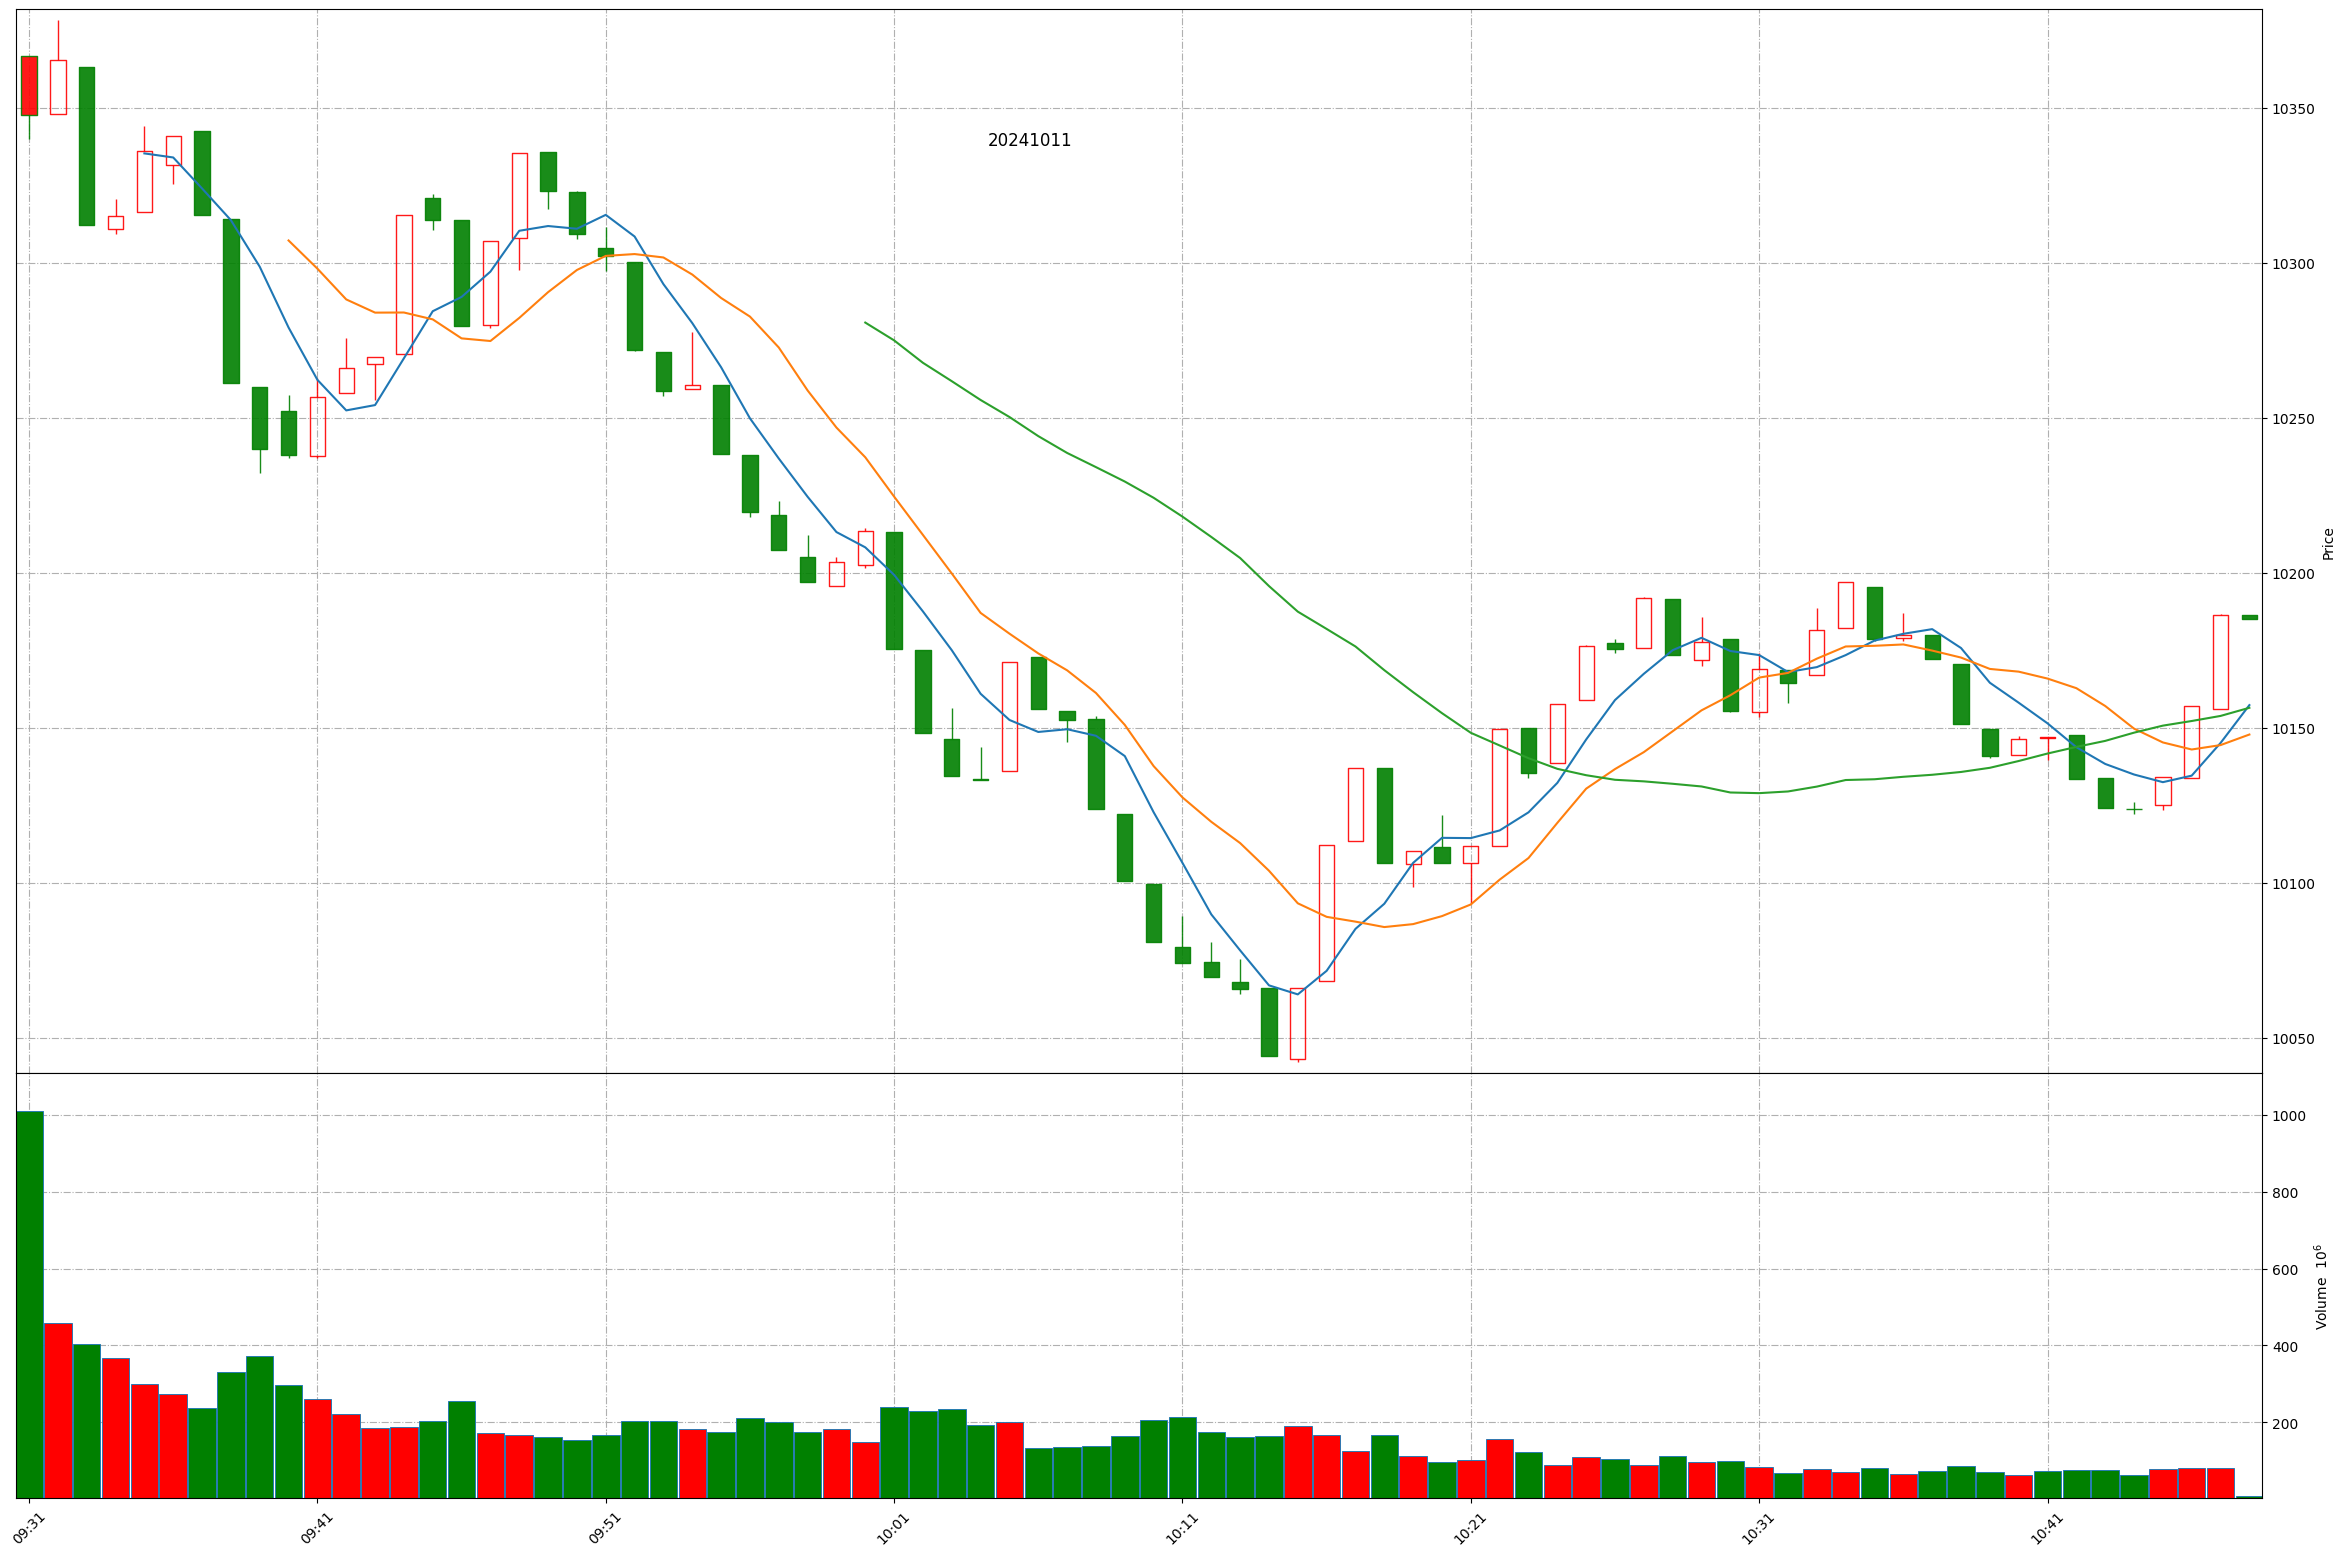
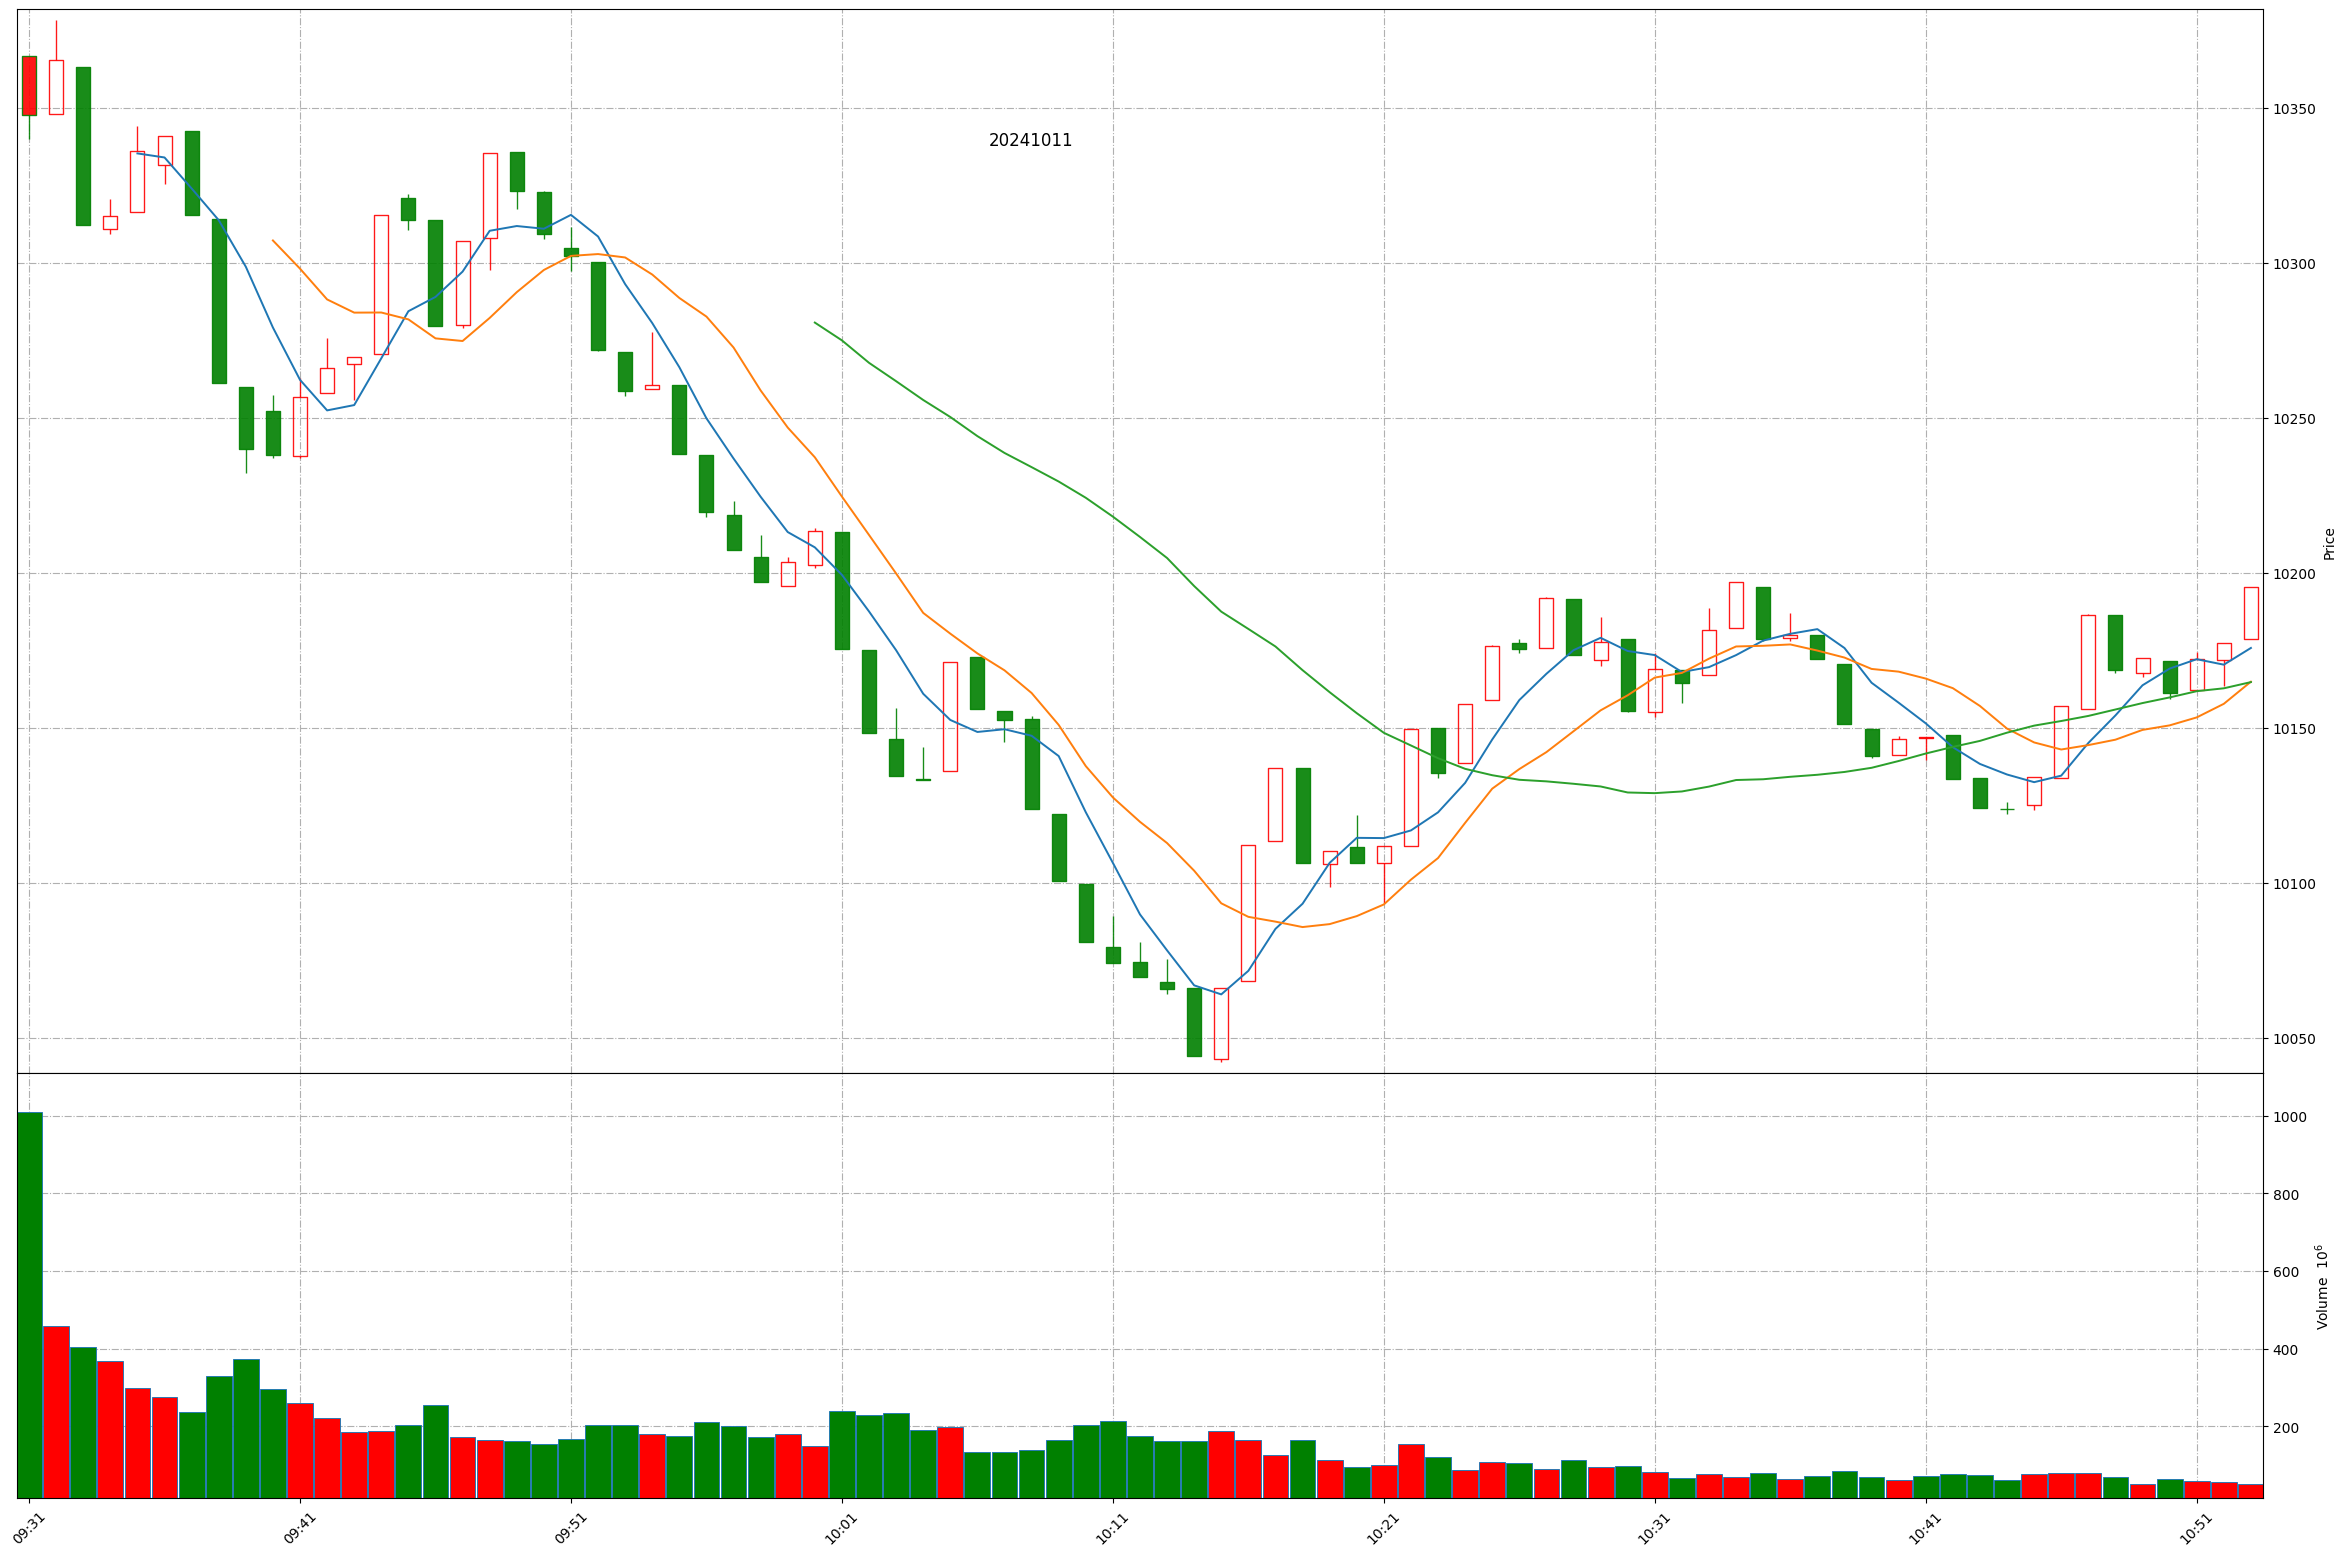
Github action update at 2024-10-11 10:52:57.

Changed region(s): [[0.0, 0.0308, 0.965, 0.6787], [0.0, 0.8329, 0.965, 0.9871]]

diff --git a/README.md b/README.md
@@ -1,11 +1,11 @@
 
 # Daily-A-share-market-quotes 每日 A 股指数（5min 更新）- 20241011
 
-### 上证指数 20241011 10:47
+### 上证指数 20241011 10:52
 ![](./fig/2024/10/20241011-sh000001.png)
 
-### 深证成指 20241011 10:47
+### 深证成指 20241011 10:52
 ![](./fig/2024/10/20241011-sz399001.png)
 
-### 北证50 20241011 10:47
+### 北证50 20241011 10:52
 ![](./fig/2024/10/20241011-bj899050.png)
